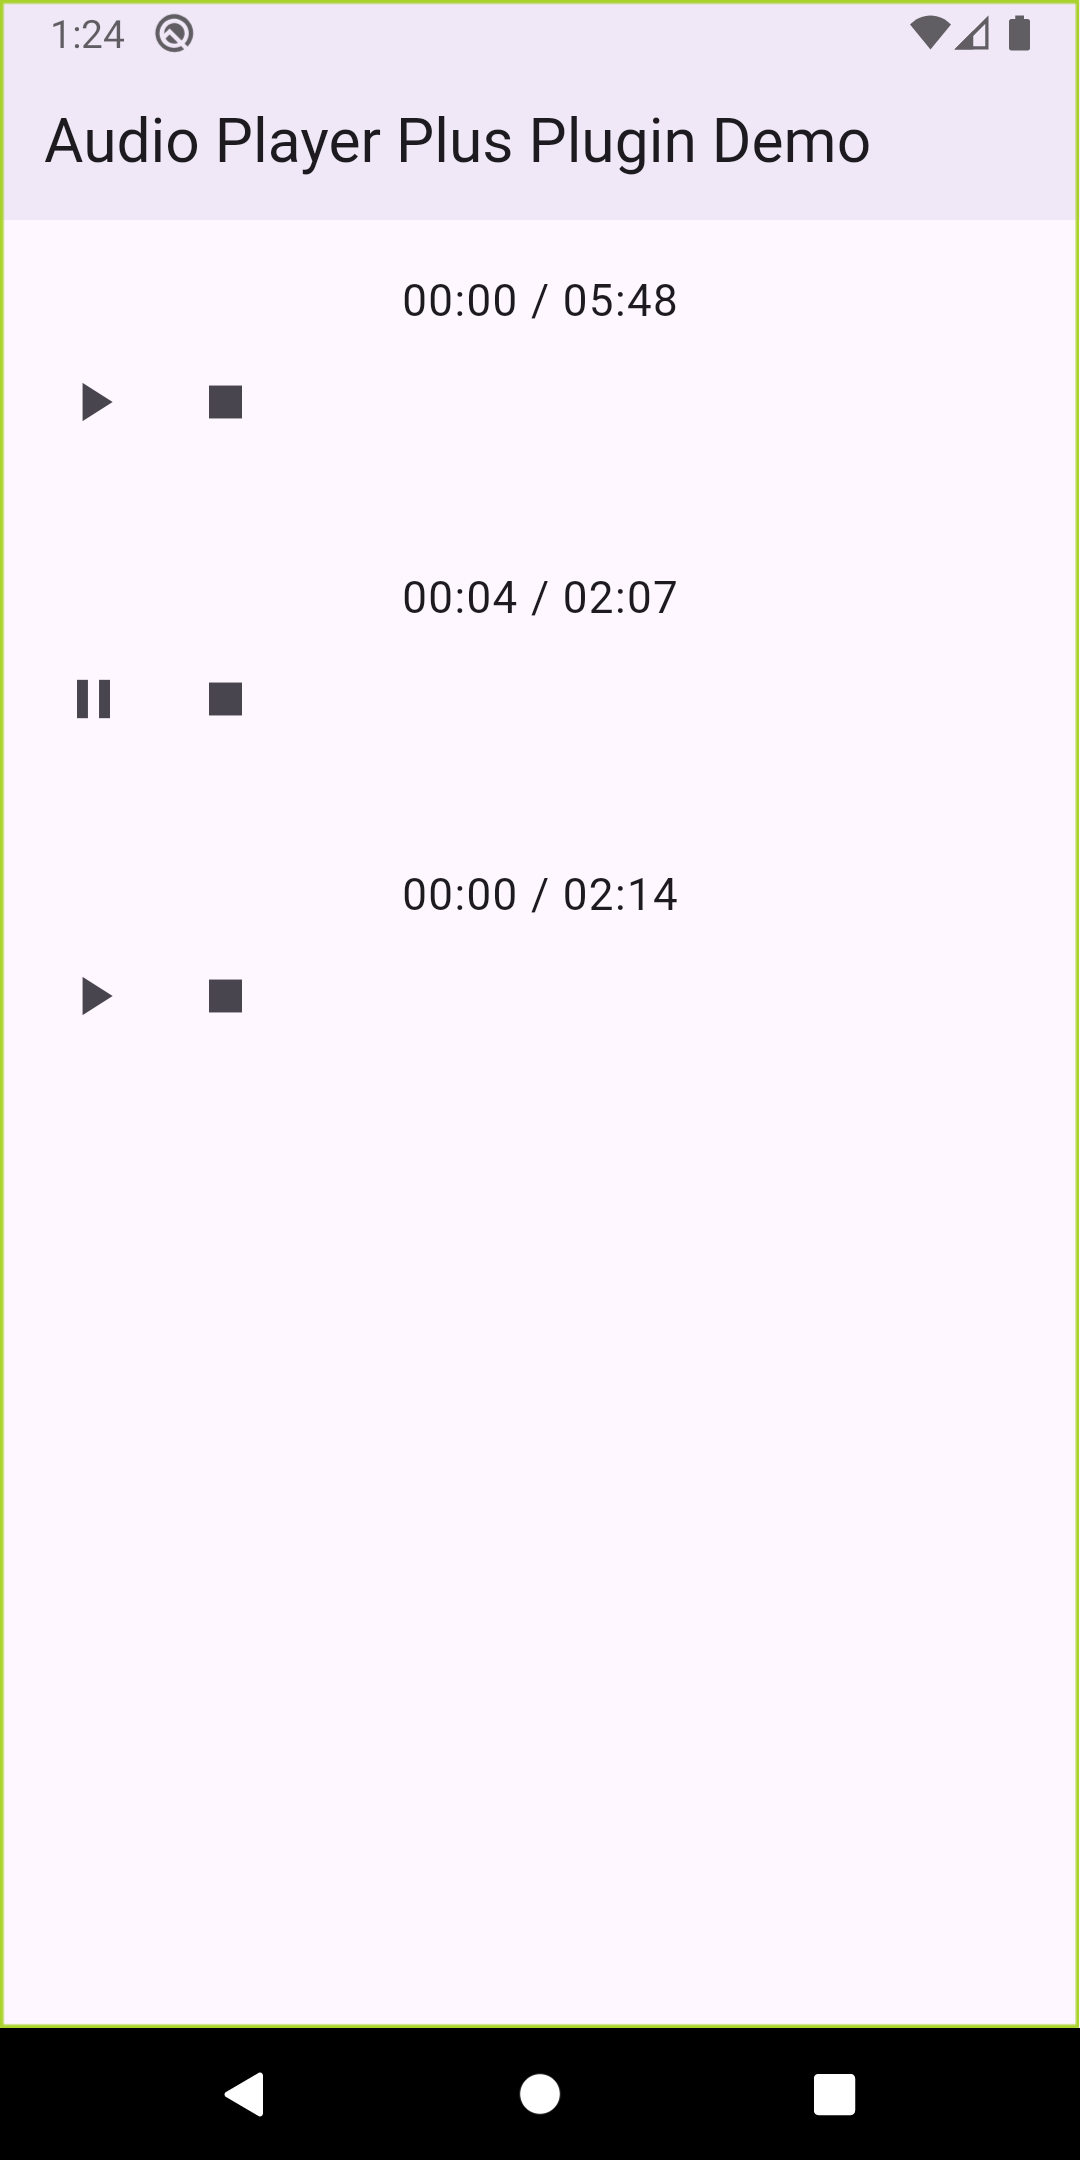
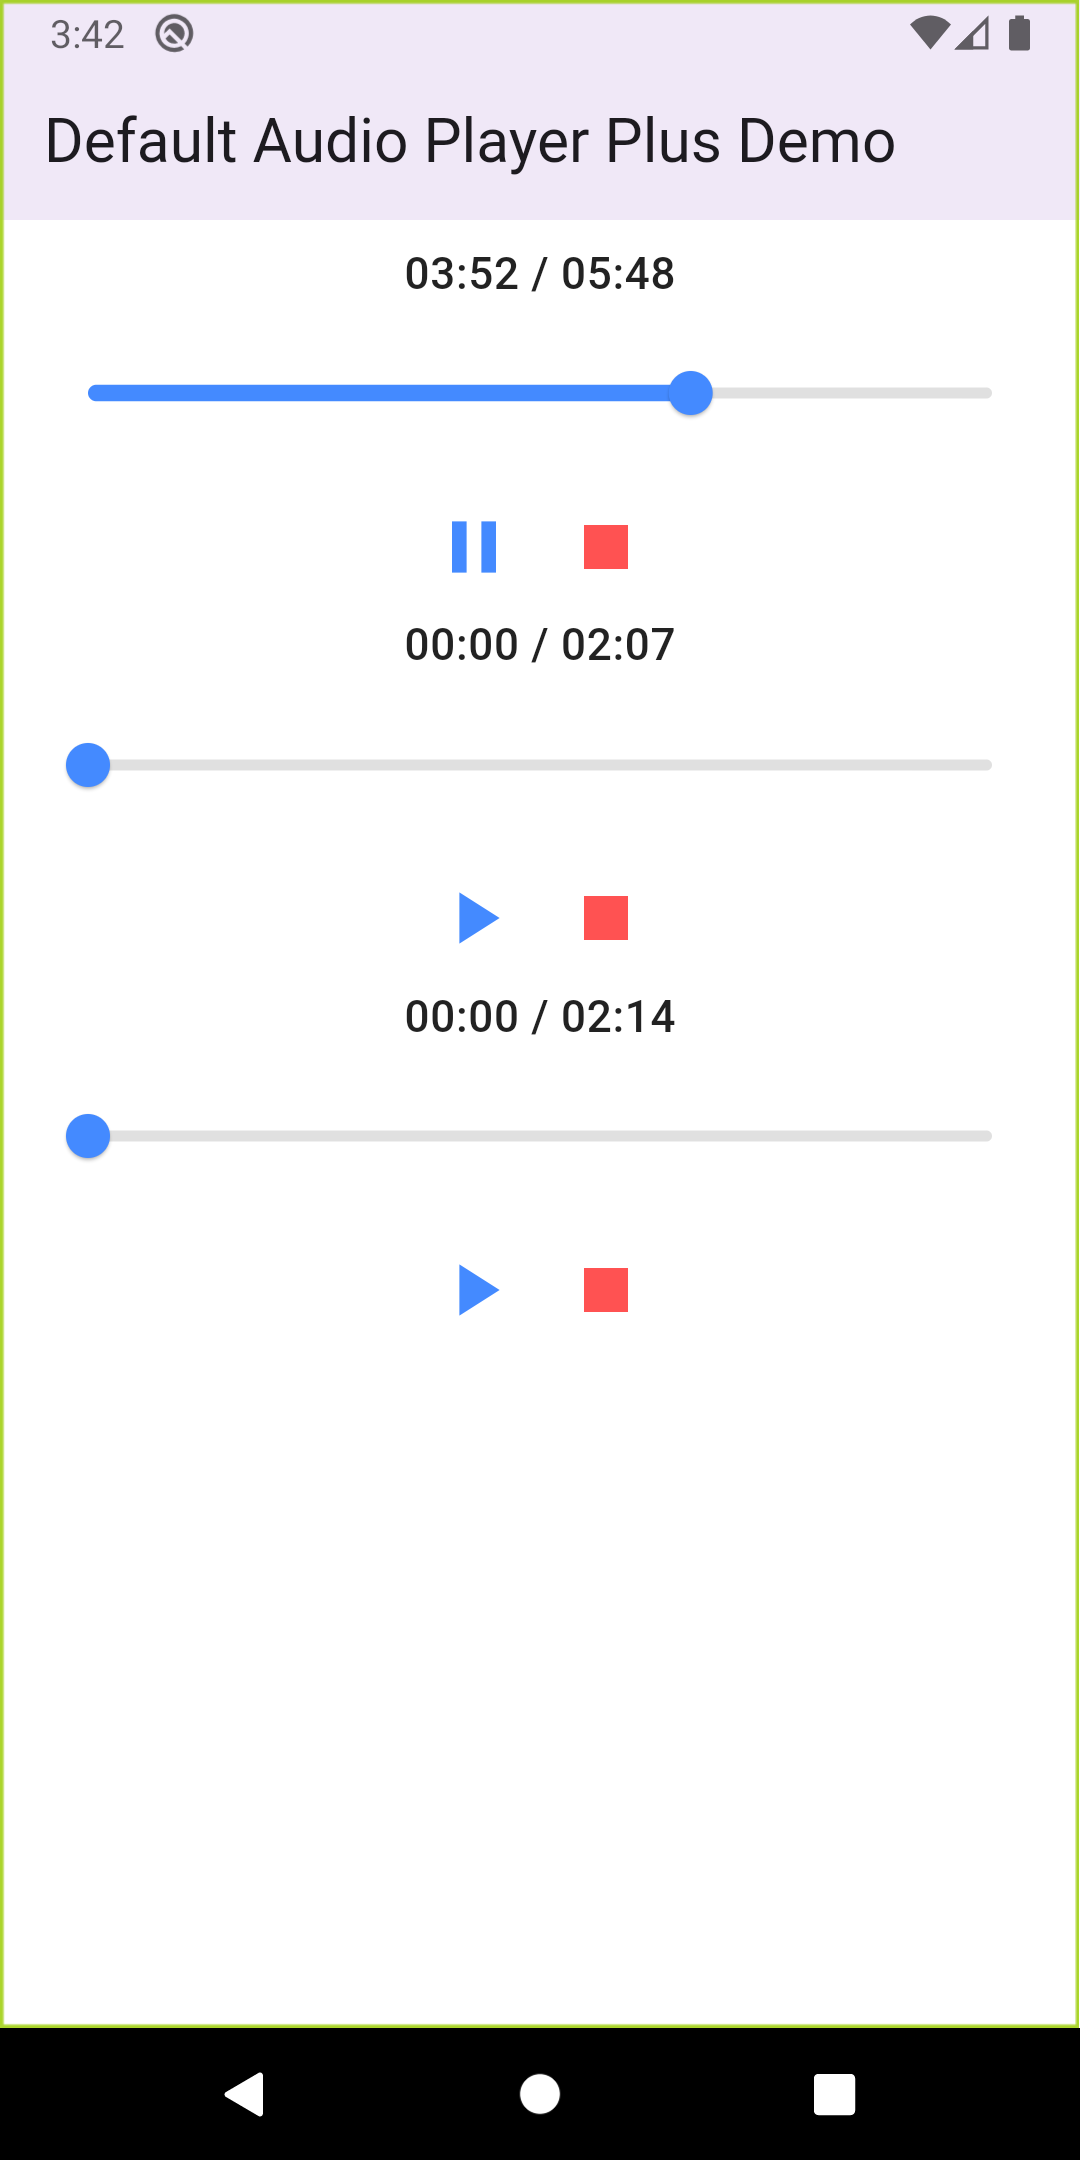
README

diff --git a/example/lib/main.dart b/example/lib/main.dart
@@ -32,6 +32,7 @@ class _DemoAppStateState extends State<DemoAppState> {
       debugShowCheckedModeBanner: false,
       title: 'Custom Audio Player Plus Demo',
       home: Scaffold(
+        backgroundColor: Colors.white,
         appBar: AppBar(
           title: const Text('Custom Audio Player Plus Demo'),
           elevation: 4,
@@ -39,7 +40,7 @@ class _DemoAppStateState extends State<DemoAppState> {
         body: ListView.builder(
           padding: EdgeInsets.all(8.0),
           itemCount: audioUrls.length,
-          itemBuilder: (context, index) => AudioPlayerPlus(
+          itemBuilder: (context, index) => AudioPlayerPlus(showAudioSlider: true,
             audioPath: audioUrls[index],
             customBuilder: (
               context,

diff --git a/README.md b/README.md
@@ -16,6 +16,7 @@ A customizable Flutter audio player, designed to be reusable, flexible, and easy
 ---
 
 ## Demo
+
 <img src="https://raw.githubusercontent.com/ArefkhattabGit/audio_player_plus/refs/heads/master/lib/screenshots/demo.png" alt="AudioPlayerPlus" width="372" height="752"/>
 
 
@@ -27,13 +28,14 @@ Add to your `pubspec.yaml`:
 
 ```yaml
 dependencies:
-  audio_player_plus: ^0.1.1
+  audio_player_plus: ^0.1.2
 ```
 
 ### Use
 Simple use:
 
 ```dart
+
 import 'package:audio_player_plus/audio_player_plus.dart';
 import 'package:flutter/material.dart';
  
@@ -55,17 +57,17 @@ class _DemoAppStateState extends State<DemoAppState> {
   Widget build(BuildContext context) {
     return MaterialApp(
       debugShowCheckedModeBanner: false,
-      title: 'Audio Player Plus Demo',
+      title: 'Default Player Plus Demo',
       home: Scaffold(
         appBar: AppBar(
-          title: const Text('Audio Player Plus Demo'),
+          title: const Text('Default Player Plus Demo'),
           elevation: 4,
         ),
         body: ListView.builder(
           padding: EdgeInsets.all(8.0),
           itemCount: audioUrls.length,
           itemBuilder: (context, index) => AudioPlayerPlus(
-            audioSource: audioUrls[index],
+             audioSource: audioUrls[index],
           ),
         ),
       ),
@@ -73,11 +75,13 @@ class _DemoAppStateState extends State<DemoAppState> {
   }
 }
 ```
+`showAudioSlider` (Optional option to show/hide Slider by default enabled)
+
 
 <img src="https://raw.githubusercontent.com/ArefkhattabGit/audio_player_plus/refs/heads/master/lib/screenshots/custom_audio.png" alt="AudioPlayerPlus" width="372" height="752"/>
 
 ### Use Custom Ui
-Customizable audio player widget
+Custom audio player using `customBuilder`
 
 ```dart 
 class DemoAppState extends StatefulWidget {

diff --git a/CHANGELOG.md b/CHANGELOG.md
@@ -1,4 +1,4 @@
-## [0.1.1] - 2025-04-25
+## [0.1.2] - 2025-04-25
 ### Added
 - Added slider for audio playback.
 ### Fixed
